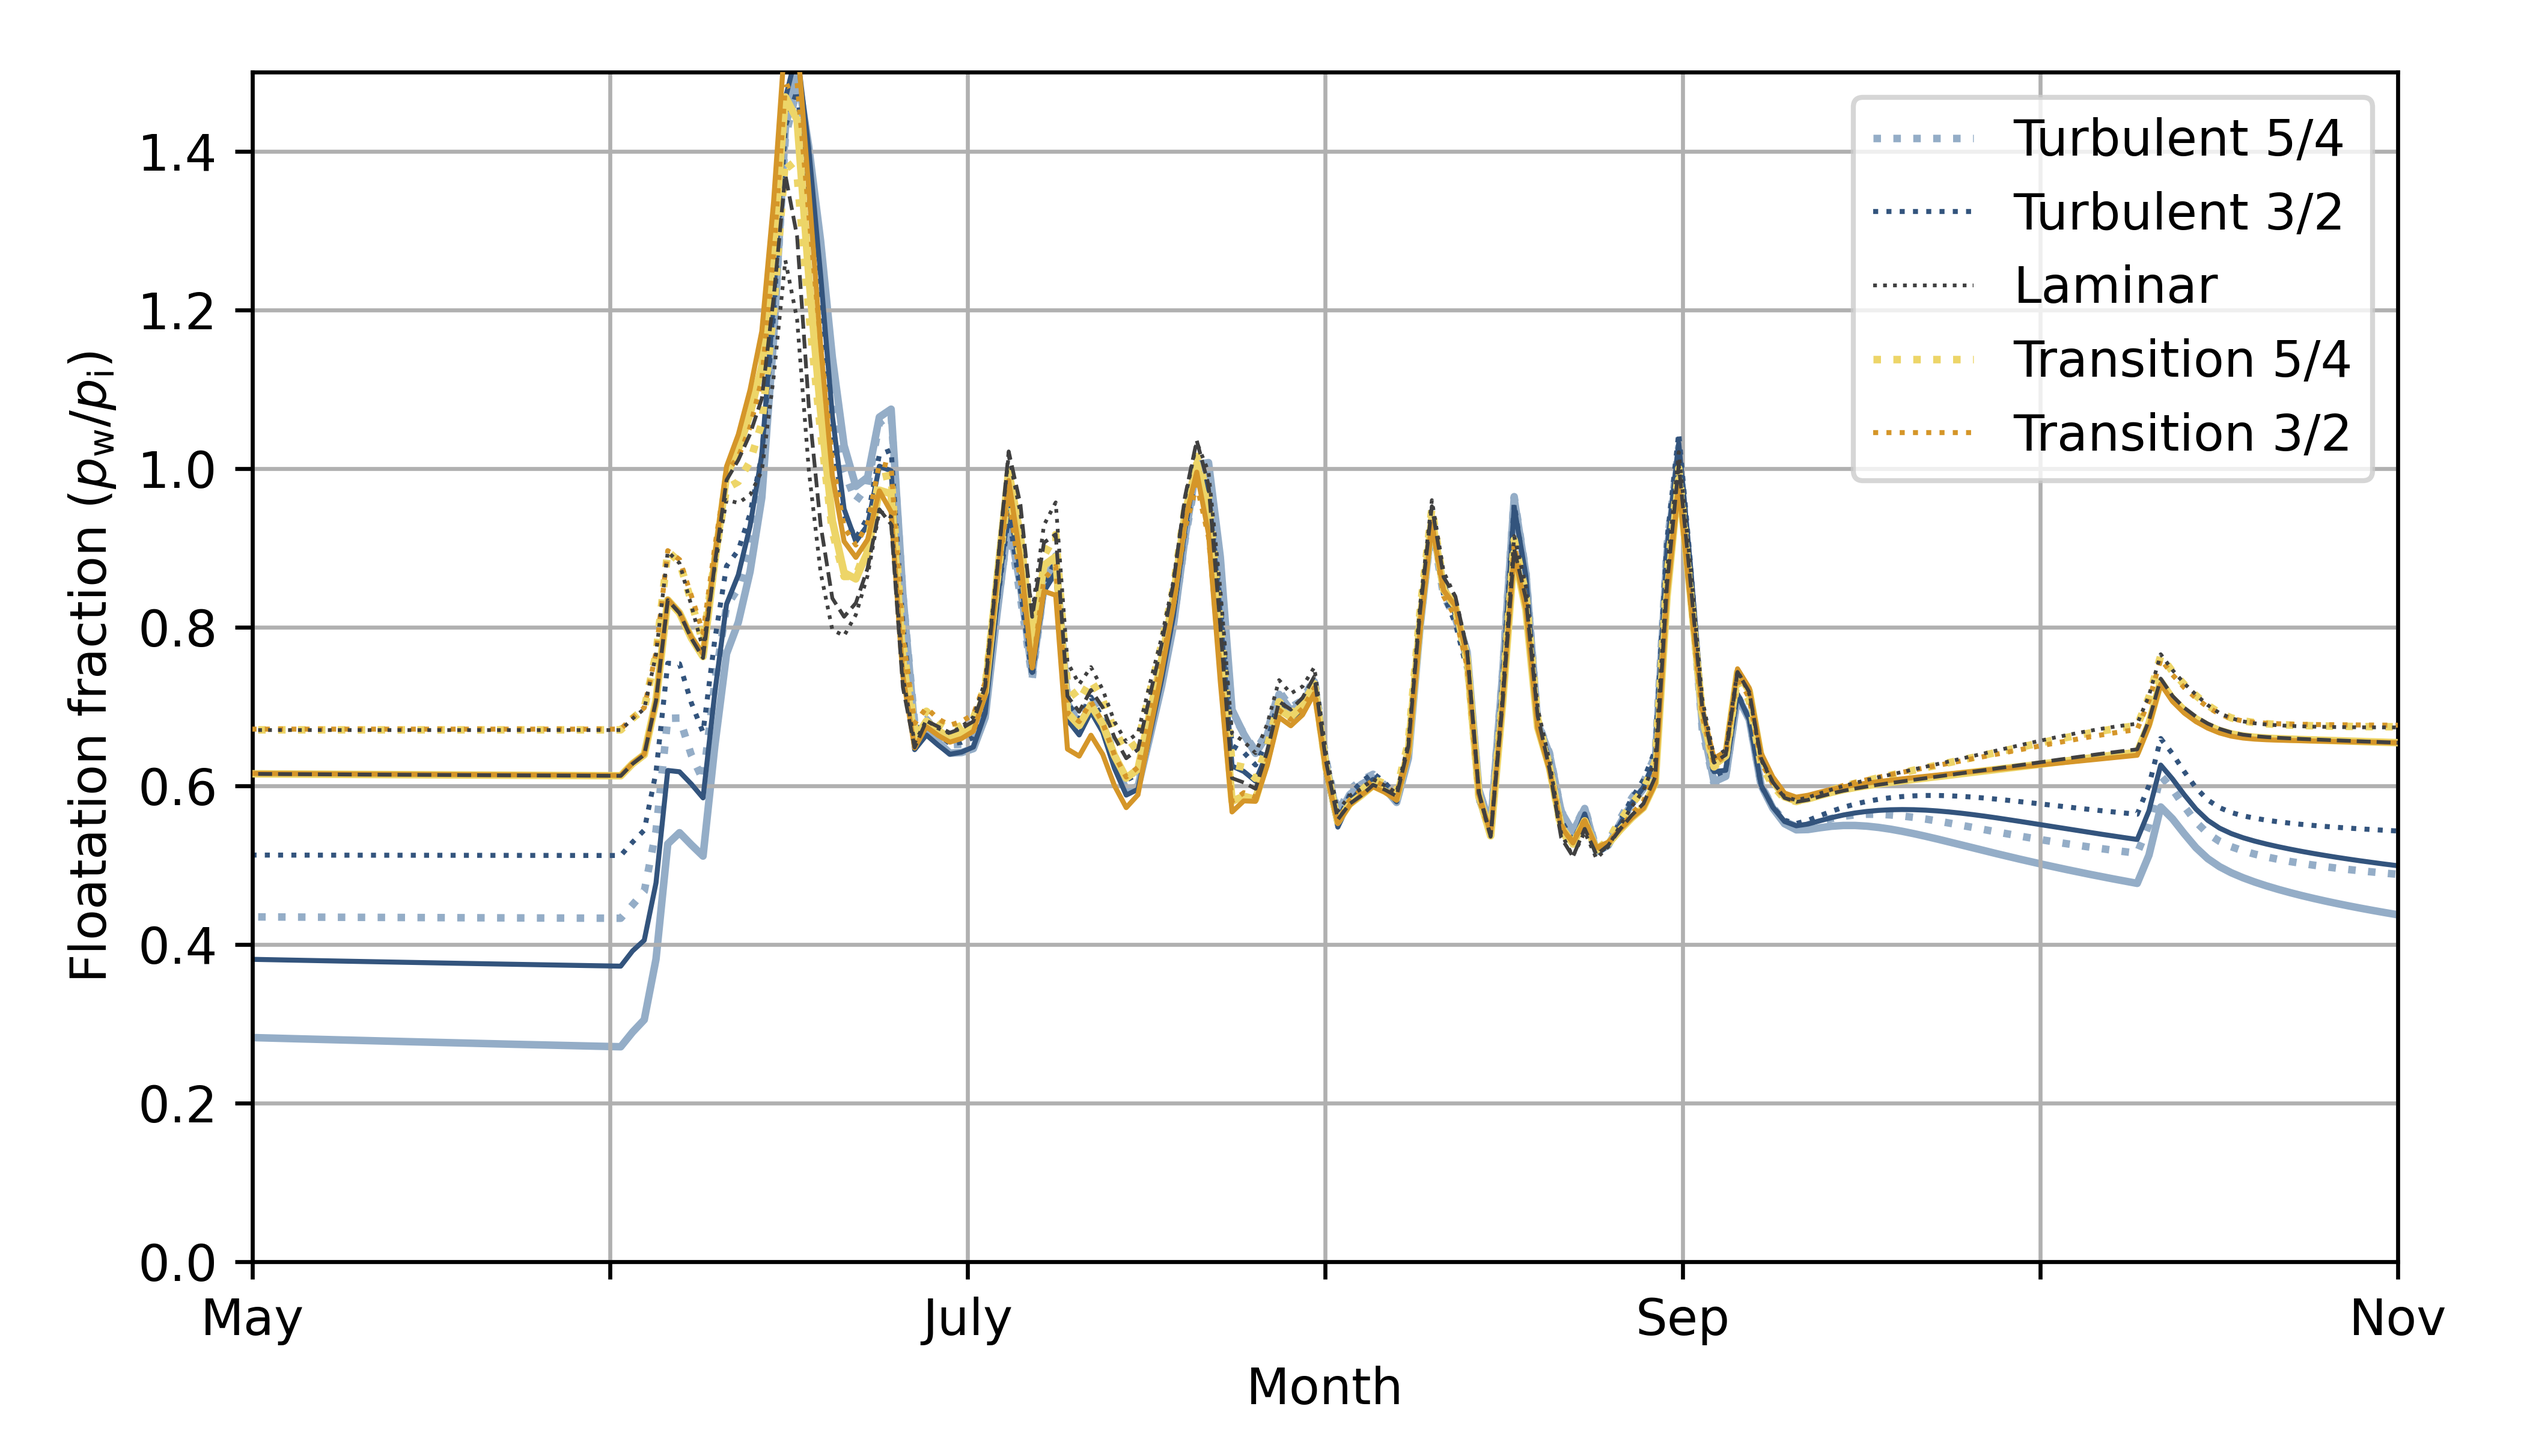
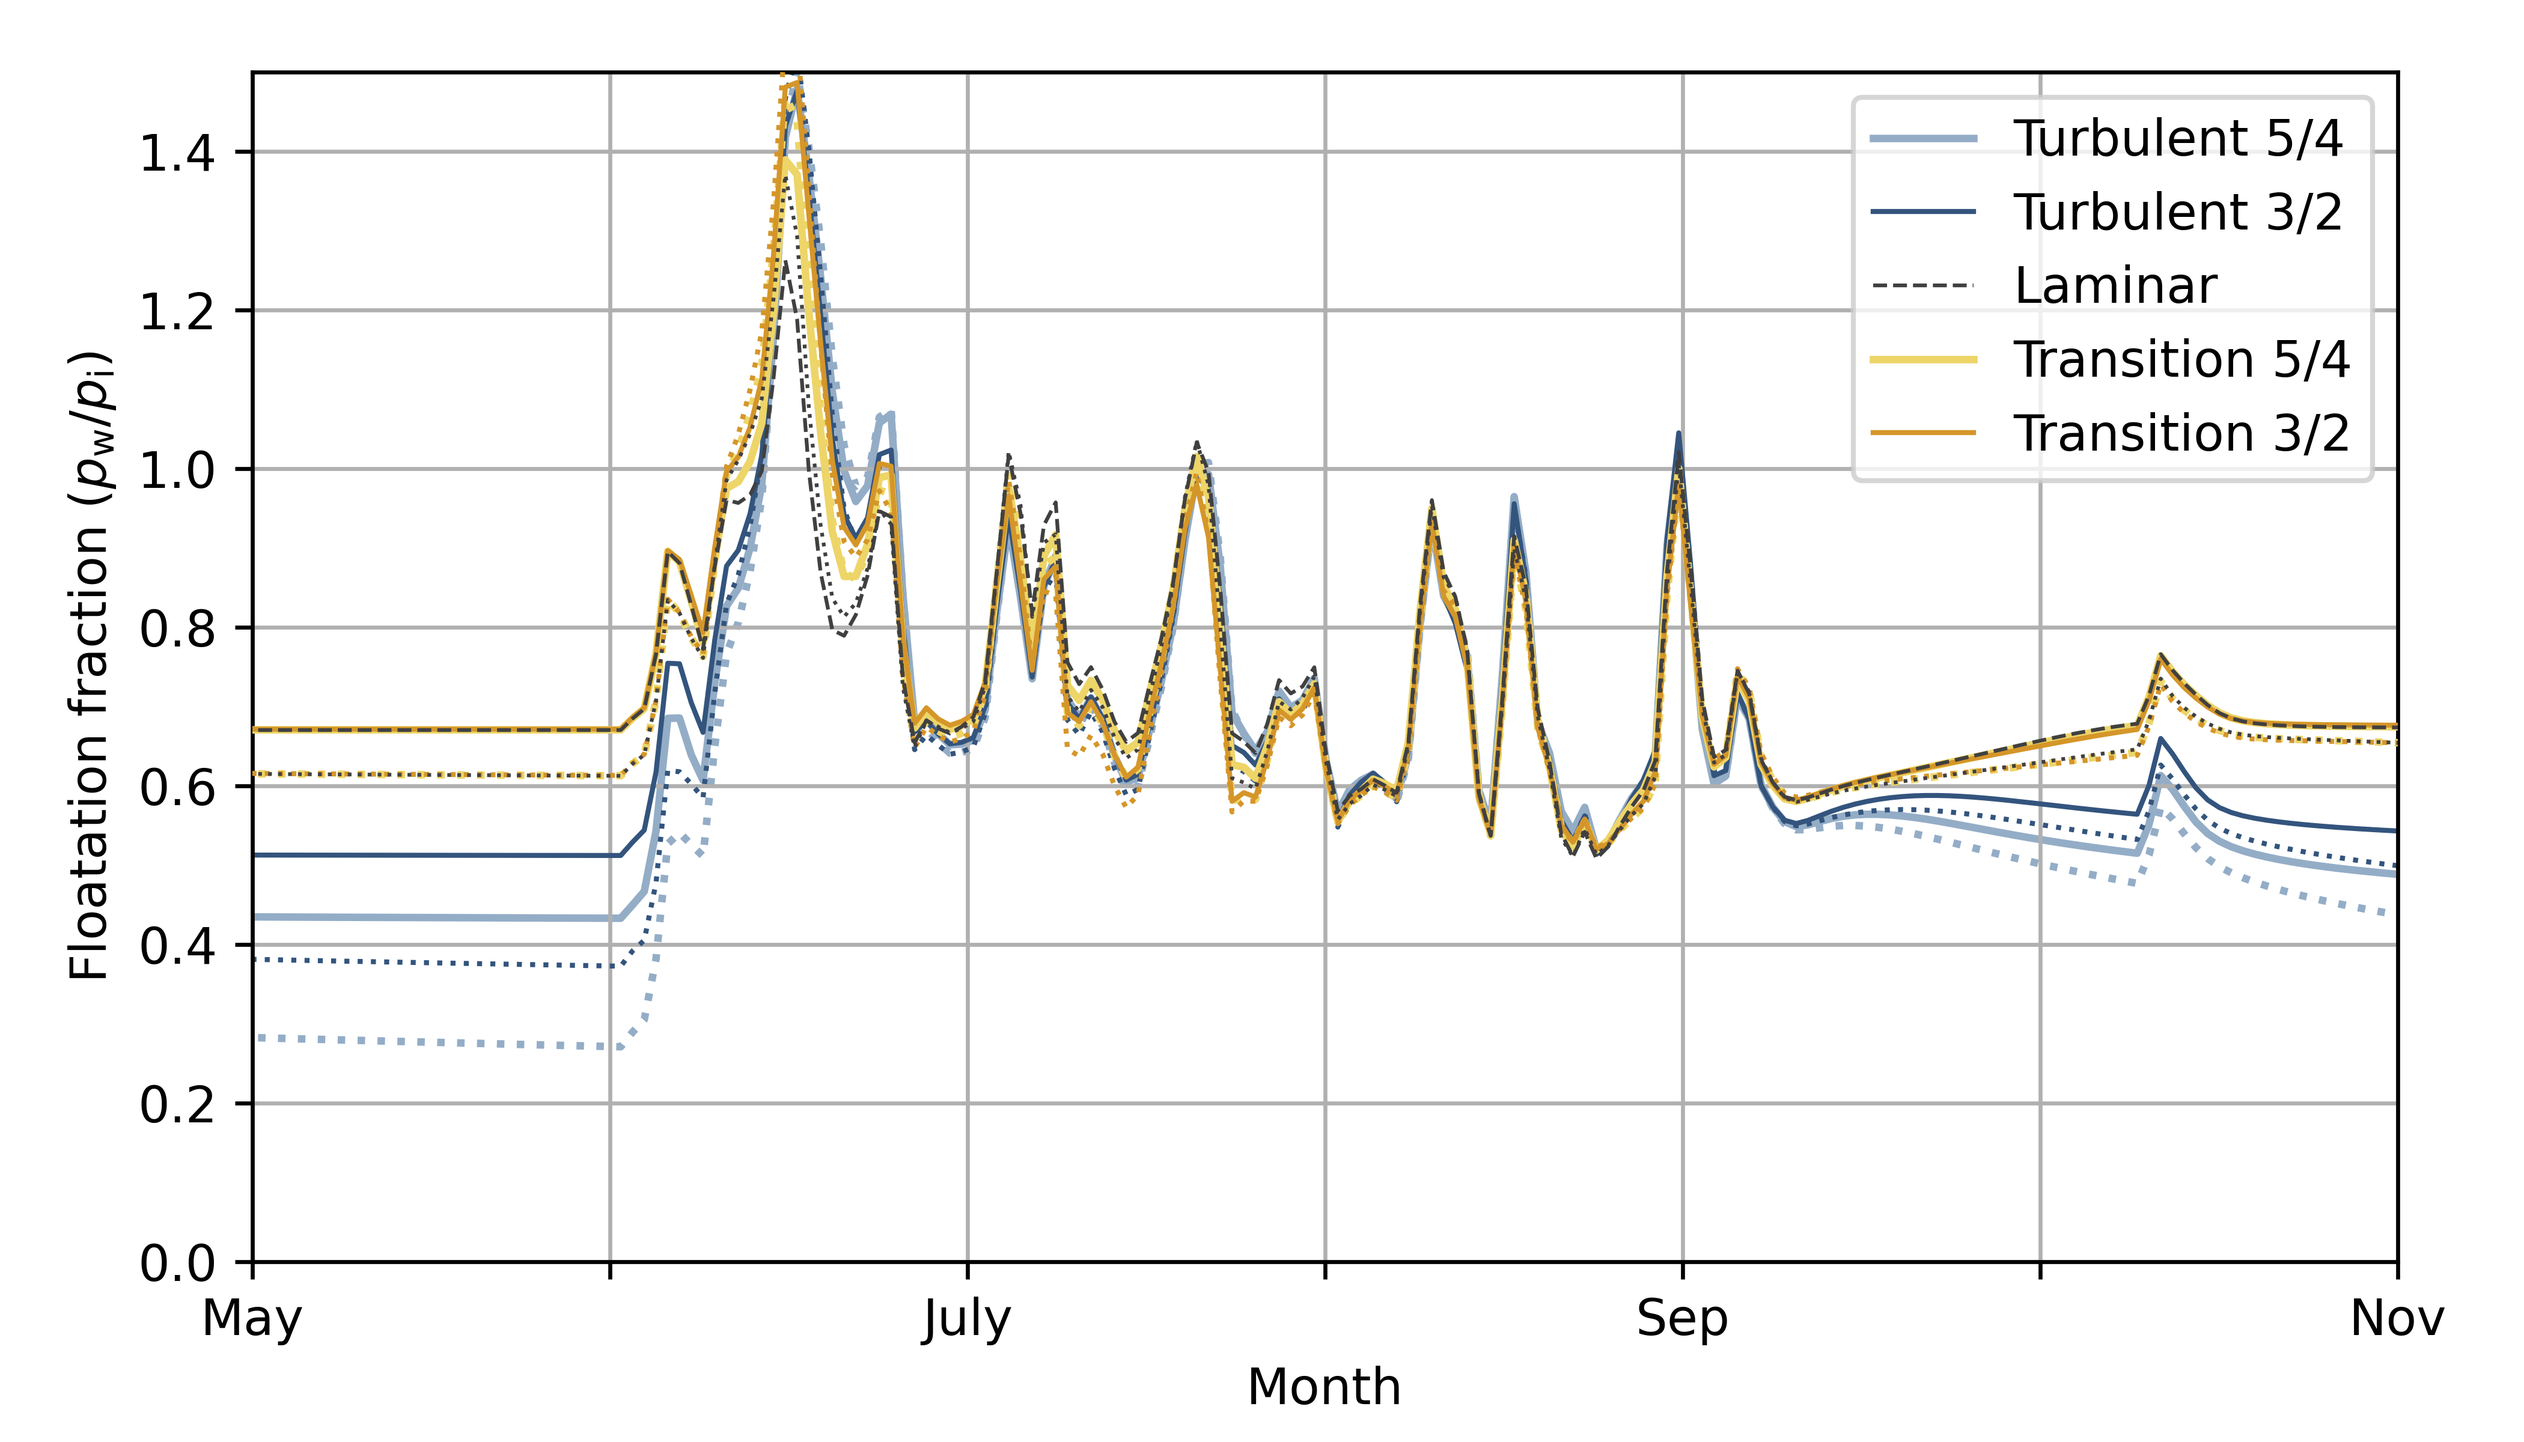
linestyles

diff --git a/analysis/compare_basalmelt.py b/analysis/compare_basalmelt.py
@@ -23,7 +23,7 @@ colors = np.array([[0.579, 0.677, 0.781, 1],
                    [0.929, 0.835, 0.408, 1],
                    [0.836, 0.590, 0.160, 1]])
 
-linestyles = ['dotted', 'solid']
+linestyles = ['solid', 'dotted']
 lws = [1.5, 1, 0.75, 1.5, 1]
 zorders = [1, 2, 5, 3, 4]
 
